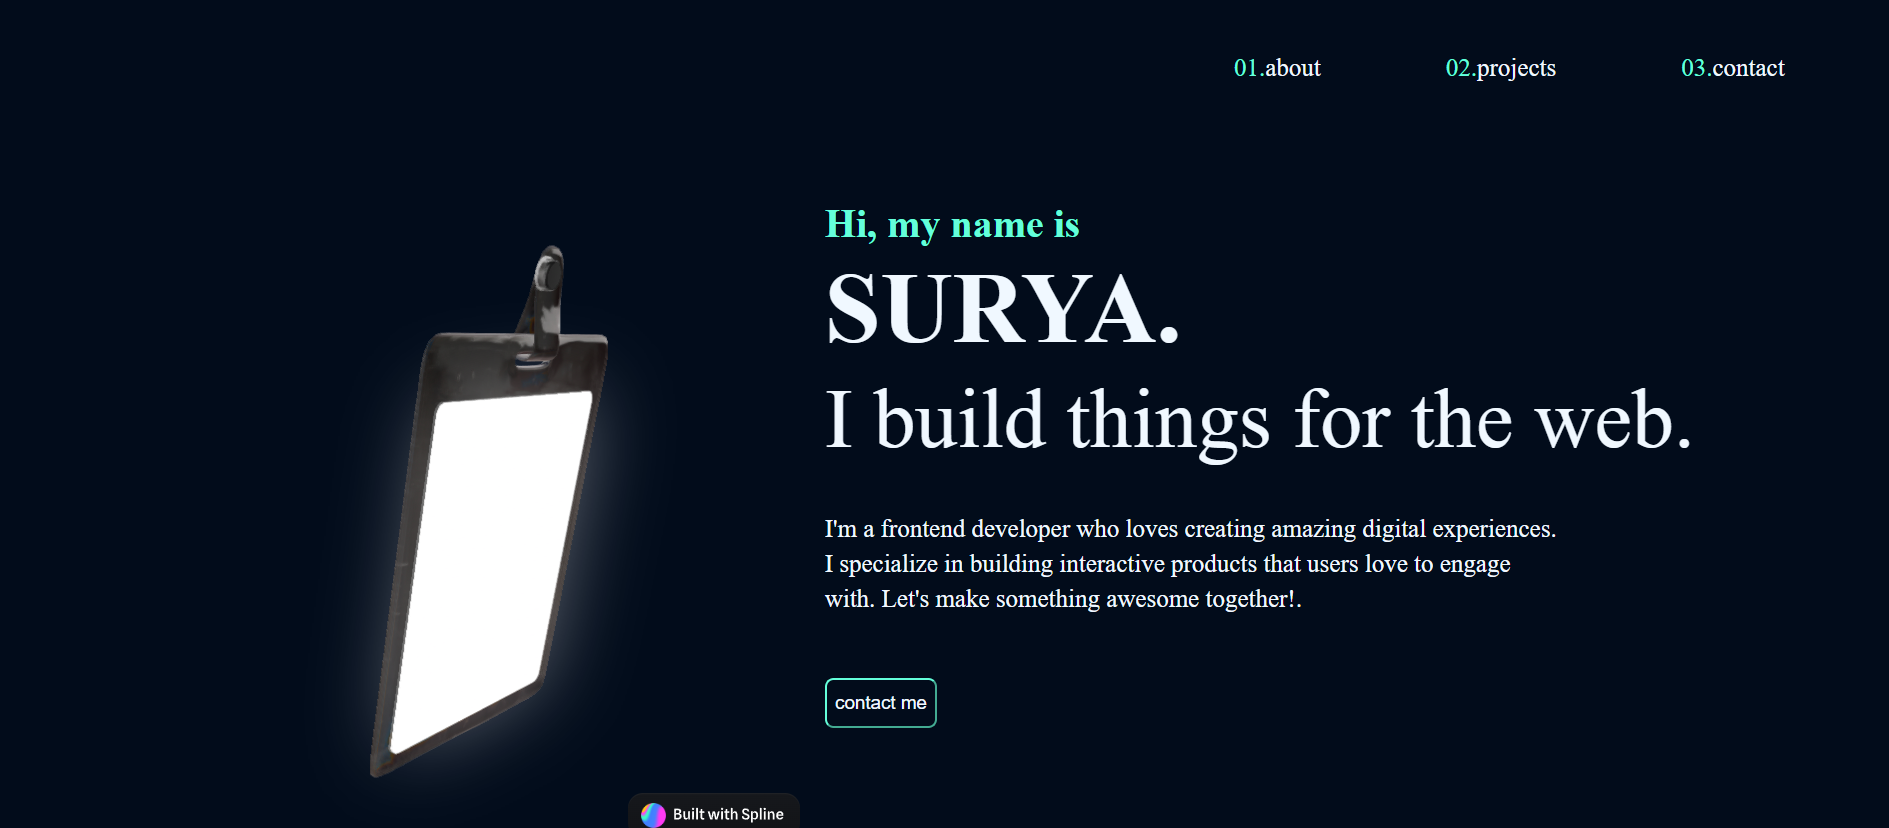
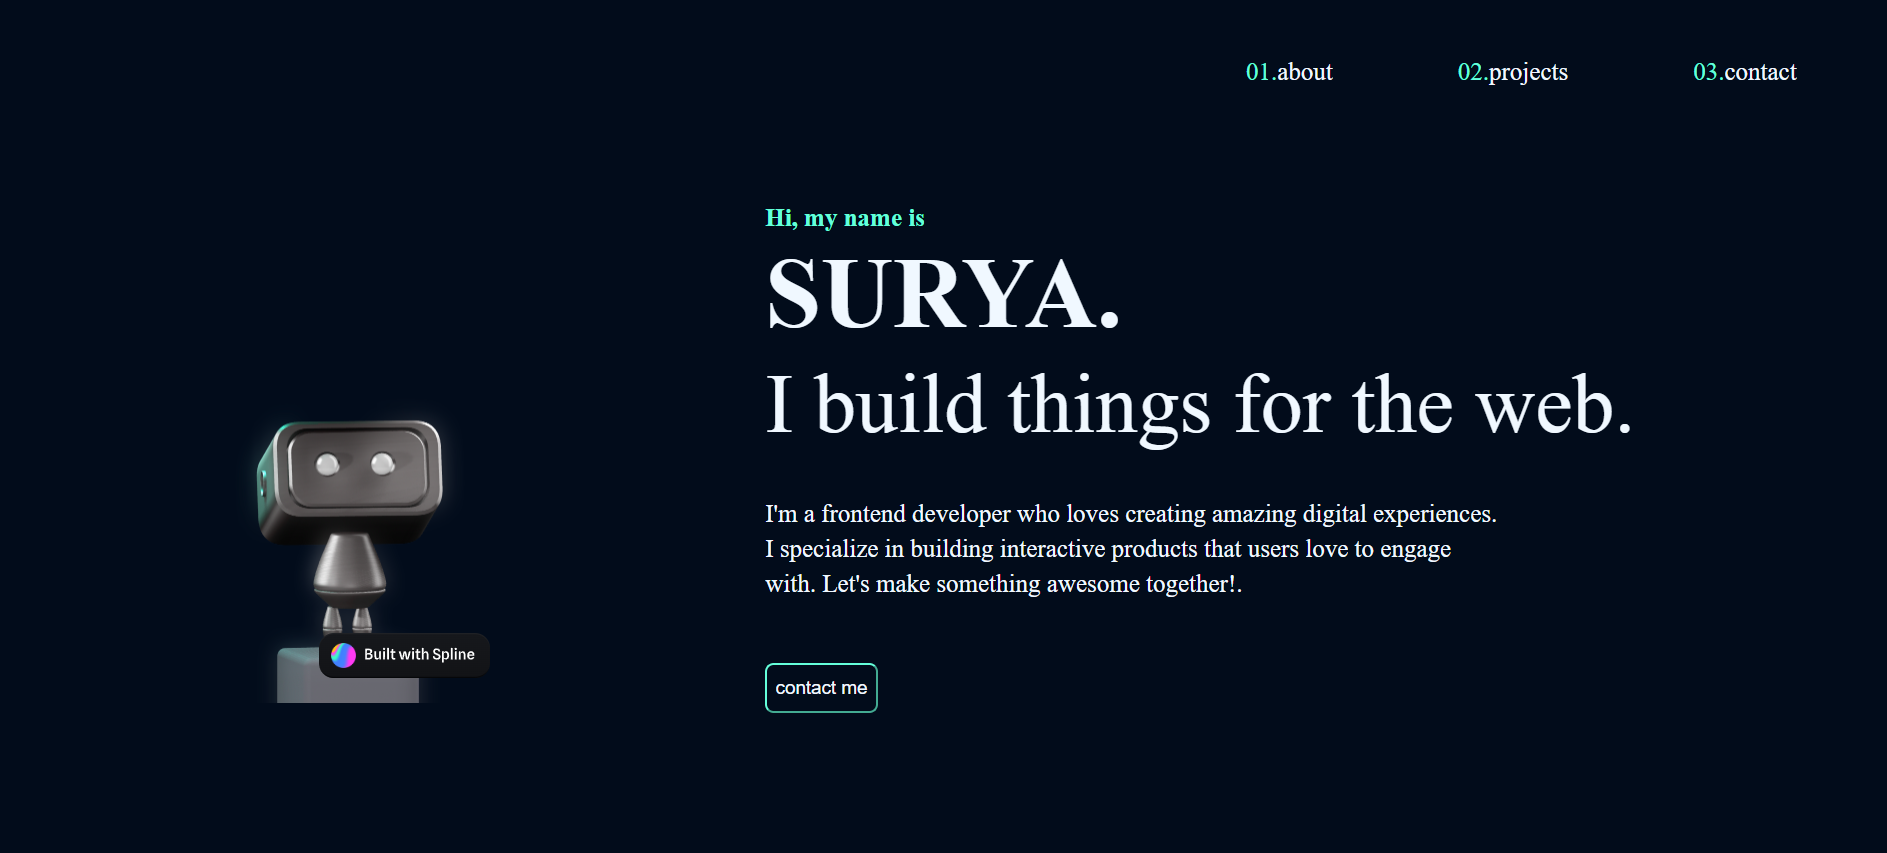
style updated

diff --git a/another.html b/another.html
@@ -1,0 +1,160 @@
+<!DOCTYPE html>
+<html lang="en">
+<head>
+    <meta charset="UTF-8">
+    <meta name="viewport" content="width=device-width, initial-scale=1.0">
+    <title>Portfolio</title>
+   
+    <script src="https://cdn.tailwindcss.com"></script>
+</head>
+
+<body class="bg-indigo-950 px-[100px] font-mono">
+    <header class="px-[40px] sticky top-0 z-50 bg-indigo-950">
+        <nav class="flex justify-between items-center w-full   py-10">
+            <div class="text-teal-300">
+                test
+
+            </div>
+            <div class=" " >
+            
+                <ul class="flex items-center  text-[#FFAF45]  ">
+                    <li class="text-xl  mx-[20px] hover:text-teal-300 "><span class=" text-sm text-teal-300">01.</span><a class="" href="#about">About</a></li>
+                    <li class=" text-xl mx-[20px] hover:text-teal-300 "><span class=" text-sm text-teal-300">02.</span><a class=""href="#projects">Projects</a</li>
+                    <li class=" text-xl  mx-[20px] hover:text-teal-300"><span class=" text-sm text-teal-300">03.</span><a class=""href="#contact">Contact</a></li>
+                  </ul>
+                </div>
+               
+            
+        </nav>
+    </header>
+    <section class="flex   justify-start flex-col items-start min-w-full max-w-screen-lg mx-auto h-lvh border-b border-teal-200 ">
+      <div class="pt-[220px]">
+        <div><h1 class="mb-[20px] ml-[4px] text-teal-300 ">Hi, my name is</h1></div>
+        <div class=""><h2 class="text-7xl font-bold text-slate-300 ">SURYA.</h2></div>
+        <div class=""><h3 class="text-7xl font-bold text-indigo-300 leading-[0.9] tracking-tight ">I build things for the web.</h3></div>
+        <div> <p class="mt-[20px] max-w-[540px] text-indigo-300 tracking-tight text-lg  "> I'm a frontend developer who loves creating amazing digital
+            experiences. I specialize in building interactive products that users
+            love to engage with. Let's make something awesome together!.</p></div>
+            <div class="">
+                <p>
+                    <button class=" text-teal-300 border border-teal-300 py-3 px-5 text-2xl rounded mt-[50px] transition duration-500 ease-in-out  hover:text-cyan-300 transform hover:-translate-y-1 hover:scale-110 ">
+                      <a href="mailto:suryasv0-729@gmail.com">contact me</a>
+                    </button>
+                  </p>
+            </div>
+          </div>
+    </section>
+    <section class="h-dvh pt-[220px] pb-[800px] border-b border-teal-200  ">
+        <h2 class=" text-slate-100 font-bold text-3xl tracking-tight mt-[10px] mb-[40px] w-full leading-[1.1]"><span class="text-teal-300 text-lg pr-2">01.</span>About Me </h2>
+        
+        <div class="flex gap-12 ">
+            <div class="   ">
+<div class="  text-indigo-300 text-left ">
+    <p class=" mb-[50px] text-lg  ">
+        Hello! My name is surya. I'm someone who sees the world through
+        visuals.Since childhood, I've always been a creative soul, preferring
+        drawing over crunching numbers. When I began exploring programming
+        languages like Java, I found myself losing interest quickly. However,
+        when my team encouraged me to learn JavaScript, something
+        clicked. As I started learning HTML and CSS, I discovered the joy of
+        seeing my creations come to life on the screen. This journey ignited a
+        passion for front-end development within me.
+      </p>
+      <p class=" mb-[50px] text-lg ">
+        Building interactive websites allows me to combine my love for
+        creativity with the power of technology. I find immense satisfaction
+        in crafting digital experiences that engage and inspire users.
+      </p>
+      <p class="text-lg   ">
+        Here are a few technologies I’ve been working with recently:
+      </p>
+</div>
+<div class=" ml-4 flex gap-8 text-teal-300 mt-[20px] ">
+    <ul class=" pt-10 list-disc  ">
+      <li class="pl-[5px] mb-[20px]">JavaScript (ES6+)</li>
+      <li class="pl-[5px] mb-[20px]">React</li>
+      <li class="pl-[5px] mb-[20px]">HTML</li>
+      </ul>
+      <ul class=" pt-10 list-disc">
+      <li class="pl-[5px] mb-[20px]">Git</li>
+      <li class="pl-[5px] mb-[20px]">CSS</li>
+      <li class="pl-[5px] mb-[20px]">3D designing</li>
+    </ul>
+</div>
+</div>
+
+            <div class="mb-10">
+<img class="rounded-full max-w-[350px]" src="img/uifaces-cartoon-image.jpg" alt="">
+            </div>
+        </div>
+        
+
+    </section>
+    <section class="py-[100px]  text-indigo-300 border-b border-teal-200">
+        <h2  class="text-slate-100 font-bold text-3xl tracking-tight mt-[10px] mb-[40px] w-full leading-[1.1]"><span class="text-teal-300 text-lg pr-2">02.</span>Projects</h2>
+       
+          <div class="mx-auto container grid grid-cols-2 items-center gap-[5rem]  justify-items-center">
+           
+             
+                <a href="https://urcookmate.netlify.app/">
+              <img class=" border-2 border-teal-300 rounded w-[450px] h-[280px] hover:scale-110 transition duration-700 cursor-pointer  " src="./img/cookmateimg.png" alt="" >
+              
+                </a>
+                
+           
+            
+          
+           
+             
+              <p class="text-xl p-5 w-[600px]  ">
+                This project is a web application that allows users to search for
+                recipes using either the recipe name or ingredient name. The
+                application utilizes the Forkify API to fetch recipe data and
+                provides a user-friendly interface for exploring and managing
+                recipes.
+              </p>
+            
+         
+              
+              <p class="text-xl p-5  w-[600px] ml-28 ">
+                Developed a landing page for a meal delivery service, following
+                modern design principles. Integrated a 3D hamburger model using
+                Spline to enhance visual appeal and user engagement.currently
+                working on making it responsive to all screen sizes.
+              </p>
+           
+              <a href="https://testomninow.netlify.app/">
+              <img class="border-2 border-teal-300 rounded w-[450px] h-[280px] hover:scale-110 transition duration-700 cursor-pointer" src="img/omniimg.png" alt="" >
+            </a>
+            
+    
+          
+          
+              <a href="https://suryaonline.netlify.app/">
+              <img class="border-2 border-teal-300 rounded w-[450px] h-[280px] hover:scale-110 transition duration-700 cursor-pointer " src="img/portfolioimg.png" alt="">
+            </a>
+           
+              <p class="text-xl p-5  w-[600px] ">
+                Developed a portfolio project , a showcase of my creative endeavors
+                in web development. this project is made with vanilla JavaScript,
+                HTML, and CSS.used spline 3d model to enhance visual appeal and user
+                engagement
+              </p>
+            </div>
+    </section>
+    <footer id="contact">
+        <div class="text-center text-teal-300 ">
+          <div> 
+            <h2 class="py-5 font-bold text-2xl">Contact me</h2>
+            <ul class="flex  justify-center">
+              <li class="mx-1 shadow "><a class="text-gray-200" href=""> <svg fill="CurrentColor" xmlns="http://www.w3.org/2000/svg" class="w-5 h-5" viewBox="0 0 24 24"><path d="M19 0h-14c-2.761 0-5 2.239-5 5v14c0 2.761 2.239 5 5 5h14c2.762 0 5-2.239 5-5v-14c0-2.761-2.238-5-5-5zm-3 7h-1.924c-.615 0-1.076.252-1.076.889v1.111h3l-.238 3h-2.762v8h-3v-8h-2v-3h2v-1.923c0-2.022 1.064-3.077 3.461-3.077h2.539v3z"/></svg></a></li>
+              <li class=" mx-1 shadow"><a class="text-gray-200" href=""> <svg fill="CurrentColor"  xmlns="http://www.w3.org/2000/svg" class="w-5 h-5" viewBox="0 0 24 24"><path d="M15.233 5.488c-.843-.038-1.097-.046-3.233-.046s-2.389.008-3.232.046c-2.17.099-3.181 1.127-3.279 3.279-.039.844-.048 1.097-.048 3.233s.009 2.389.047 3.233c.099 2.148 1.106 3.18 3.279 3.279.843.038 1.097.047 3.233.047 2.137 0 2.39-.008 3.233-.046 2.17-.099 3.18-1.129 3.279-3.279.038-.844.046-1.097.046-3.233s-.008-2.389-.046-3.232c-.099-2.153-1.111-3.182-3.279-3.281zm-3.233 10.62c-2.269 0-4.108-1.839-4.108-4.108 0-2.269 1.84-4.108 4.108-4.108s4.108 1.839 4.108 4.108c0 2.269-1.839 4.108-4.108 4.108zm4.271-7.418c-.53 0-.96-.43-.96-.96s.43-.96.96-.96.96.43.96.96-.43.96-.96.96zm-1.604 3.31c0 1.473-1.194 2.667-2.667 2.667s-2.667-1.194-2.667-2.667c0-1.473 1.194-2.667 2.667-2.667s2.667 1.194 2.667 2.667zm4.333-12h-14c-2.761 0-5 2.239-5 5v14c0 2.761 2.239 5 5 5h14c2.762 0 5-2.239 5-5v-14c0-2.761-2.238-5-5-5zm.952 15.298c-.132 2.909-1.751 4.521-4.653 4.654-.854.039-1.126.048-3.299.048s-2.444-.009-3.298-.048c-2.908-.133-4.52-1.748-4.654-4.654-.039-.853-.048-1.125-.048-3.298 0-2.172.009-2.445.048-3.298.134-2.908 1.748-4.521 4.654-4.653.854-.04 1.125-.049 3.298-.049s2.445.009 3.299.048c2.908.133 4.523 1.751 4.653 4.653.039.854.048 1.127.048 3.299 0 2.173-.009 2.445-.048 3.298z"/></svg></a></li>
+              <li class=" mx-1 shadow"><a class="text-gray-200" href="https://www.linkedin.com/in/suryasv/"> <svg fill="CurrentColor" xmlns="http://www.w3.org/2000/svg" class="w-5 h-5" viewBox="0 0 24 24"><path d="M19 0h-14c-2.761 0-5 2.239-5 5v14c0 2.761 2.239 5 5 5h14c2.762 0 5-2.239 5-5v-14c0-2.761-2.238-5-5-5zm-11 19h-3v-11h3v11zm-1.5-12.268c-.966 0-1.75-.79-1.75-1.764s.784-1.764 1.75-1.764 1.75.79 1.75 1.764-.783 1.764-1.75 1.764zm13.5 12.268h-3v-5.604c0-3.368-4-3.113-4 0v5.604h-3v-11h3v1.765c1.396-2.586 7-2.777 7 2.476v6.759z"/></svg></a></li>
+              <li class="mx-1 shadow"><a class="text-gray-200" href="https://github.com/suryasv0729"> <svg stroke="CurrentColor"  xmlns="http://www.w3.org/2000/svg" class="w-5 h-5"viewBox="0 0 24 24" id="github"><path d="M14.5 23.862a.5.5 0 0 1-.5-.5v-3.72c0-.899-.115-1.537-.363-2.005a.5.5 0 0 1 .329-.72C16.93 16.233 19 14.064 19 11.642c0-1.2-.493-2.345-1.425-3.312a.5.5 0 0 1-.094-.558c.372-.802.293-1.894-.148-2.549-.583.228-1.34.705-1.832 1.289a.496.496 0 0 1-.554.147 8.67 8.67 0 0 0-5.893 0 .5.5 0 0 1-.554-.146c-.492-.584-1.249-1.061-1.833-1.289-.441.655-.52 1.747-.148 2.549a.498.498 0 0 1-.094.557C5.493 9.297 5 10.443 5 11.642c0 2.307 1.863 4.385 4.636 5.17a.501.501 0 0 1 .364.482v.349c0 .626-.251.979-.462 1.166-.452.397-1.036.337-1.1.33h-.01c-.824 0-1.444-.459-2.043-.903-.301-.223-.606-.45-.961-.638.077.104.153.211.23.318.75 1.043 1.599 2.226 2.847 2.226h1a.5.5 0 0 1 .5.5v2.72a.5.5 0 0 1-.608.488C3.95 22.642 0 17.719 0 12.142c0-6.617 5.383-12 12-12s12 5.383 12 12c0 5.576-3.95 10.5-9.392 11.708a.497.497 0 0 1-.108.012zm.258-6.121c.164.517.242 1.137.242 1.901v3.078c4.671-1.326 8-5.677 8-10.578 0-6.065-4.935-11-11-11s-11 4.935-11 11c0 4.901 3.329 9.252 8 10.578v-1.578h-.5c-1.76 0-2.813-1.465-3.659-2.643-.479-.667-.975-1.357-1.341-1.357a.5.5 0 0 1 0-1c1.74 0 2.705.715 3.48 1.29.536.397.958.71 1.52.71.056.003.263.018.379-.086.095-.086.119-.257.121-.392-3.006-.987-5-3.368-5-6.021 0-1.364.512-2.66 1.484-3.766-.429-1.243-.164-2.761.662-3.588a.494.494 0 0 1 .481-.13c.668.177 1.66.696 2.401 1.451a9.706 9.706 0 0 1 5.941 0c.741-.755 1.733-1.274 2.401-1.451a.493.493 0 0 1 .481.13c.827.827 1.091 2.345.662 3.587C19.488 8.983 20 10.279 20 11.642c0 2.728-2.127 5.17-5.242 6.099z"></path></svg></a></li>
+            </ul>
+        </div>
+        <div class="text-xl mt-2 mb-10"><p class="text-xl"><span class="text-indigo-300 text-sm">made with ❤ by</span> <a class="m-link" href="https://www.linkedin.com/in/suryasv/" target="_blank">surya</a></p></div>
+      </footer>
+    <script src="./script.js"></script>
+</body>
+</html>

diff --git a/index.html b/index.html
@@ -3,9 +3,13 @@
   <head>
     <meta charset="UTF-8" />
     <meta name="viewport" content="width=device-width, initial-scale=1.0" />
+    <link rel="preconnect" href="https://fonts.googleapis.com">
+<link rel="preconnect" href="https://fonts.gstatic.com" crossorigin>
+<link href="https://fonts.googleapis.com/css2?family=Open+Sans:ital,wght@0,300..800;1,300..800&family=Roboto:ital,wght@0,100;0,300;0,400;0,500;0,700;0,900;1,100;1,300;1,400;1,500;1,700;1,900&display=swap" rel="stylesheet">
 
     <link rel="stylesheet" href="./style.css" />
     <link rel="icon" type="image/x-icon" href="./img/uifaces-cartoon-image (1).jpg">
+    
     <title>Surya -frontend developer</title>
   </head>
   <body>
@@ -35,14 +39,16 @@
           url="https://prod.spline.design/7uWlxxB3rcuB4Y4F/scene.splinecode"
         ></spline-viewer> -->
         <!-- ///////////////////////////////// -->
-       <script 
+       <!-- <script 
           type="module"
           src="https://unpkg.com/@splinetool/viewer@1.0.62/build/spline-viewer.js"
           async
         ></script>
         <spline-viewer
           url="https://prod.spline.design/7uWlxxB3rcuB4Y4F/scene.splinecode"
-        ></spline-viewer>
+        ></spline-viewer> -->
+        <script type="module" src="https://unpkg.com/@splinetool/viewer@1.0.78/build/spline-viewer.js"></script>
+        <spline-viewer url="https://prod.spline.design/Ui52433fH-p3hLZJ/scene.splinecode"></spline-viewer>
       </div>
       <div class="hero-content">
         <h2 class="intro">Hi, my name is</h2>
@@ -91,7 +97,7 @@
         </ul>
       </div>
       <div class="img">
-        <img class="abt-img" src="./img/uifaces-cartoon-image.jpg" alt="" />
+        <img class="abt-img" src="./img/suryaprofile.JPG" alt="" />
       </div>
     </div>
     <div class="section-3" id="projects">
@@ -99,6 +105,7 @@
       <div class="projects">
         <div class="img-p">
           <img class="pro-img" src="./img/cookmateimg.png" alt="" />
+          <div class="overlay"></div>
         </div>
         <div>
           <button class="pro-link"><a href="https://urcookmate.netlify.app/" target="_blank">&#8599;</a></button>
@@ -119,8 +126,10 @@
             working on making it responsive to all screen sizes.
           </p>
         </div>
-        <div><img class="pro-img" src="./img/omniimg.png" alt="" /></div>
-        <div><img class="pro-img" src="./img/portfolioimg.png" alt="" /></div>
+        <div class="img-p"><img class="pro-img" src="./img/omniimg.png" alt="" />
+          <div class="overlay"></div></div>
+        <div class="img-p"><img class="pro-img" src="./img/portfolioimg.png" alt="" />
+          <div class="overlay"></div></div>
         <div>
           <button class="pro-link"><a href="https://suryaonline.netlify.app/" target="_blank">&#8599;</a></button>
           <p class="pro-para">
@@ -147,7 +156,9 @@
         </div>
       </div>
       <div class="made"><p>made with ❤ by <a class="m-link" href="https://www.linkedin.com/in/suryasv/" target="_blank">surya</a></p></div>
+      
     </footer>
-    <script src="./script.js"></script>
+    <div class="another"><a class="an-link" href="./another.html">another version of my portfolio &rightarrow;</a></div>
+    <script defer src="./script.js"></script>
   </body>
 </html>

diff --git a/style.css b/style.css
@@ -2,11 +2,13 @@
   margin: 0;
   box-sizing: border-box;
   padding: 0;
+  overflow-x: hidden;
 }
 
 body {
   background-color: #020c1b;
   color: aliceblue;
+  font-family: "Roboto", sans-serif;
 }
 
 .nav-list {
@@ -21,21 +23,24 @@ body {
 }
 .num {
   color: #64ffda;
+  font-size: 20px;
 }
 
 .spline-image {
   margin-top: -88px;
-  margin-left: -160px;
+  margin-left: -300px;
   height: 500px;
   width: 600px;
+  margin-bottom: 30px;
+  padding-bottom: 70px;
   background-color: #020c1b;
 }
 
 .hero-content {
-  height: 700px;
+  height: 100vh;
   width: 800px;
   background-color: #020c1b;
-  margin-right: -230px;
+  margin-left: 200px;
 }
 
 .main {
@@ -50,7 +55,7 @@ h2 {
   margin-top: 70px;
   margin-bottom: 3px;
   color: #64ffda;
-  font-size: xx-large;
+  font-size: 20px;
 }
 h1 {
   font-size: clamp(40px, 8vw, 80px);
@@ -77,23 +82,24 @@ button {
   font-weight: 520;
   margin-top: 50px;
   cursor: pointer;
+  transition: all 0.3s;
 }
 button a:hover {
   color: #64ffda;
 }
 .section-2 {
   background-color: #020c1b;
-  padding: 0 150px 0 150px;
+  padding: 0 150px 30px 150px;
   display: grid;
   grid-template-columns: 3fr 1fr;
   justify-content: center;
   align-items: center;
   border-bottom: solid 2px #4b4d4c6f;
+  height: 100vh;
 }
 
 .about {
   background-color: #020c1b;
-  height: 850px;
   width: 1200px;
   display: flex;
   flex-direction: column;
@@ -122,7 +128,7 @@ button a:hover {
 .img {
   width: 900px;
   margin-left: 140px;
-  margin-bottom: 300px;
+  margin-bottom: 00px;
 }
 
 .skill-list {
@@ -146,7 +152,7 @@ button a:hover {
 }
 
 .projects {
-  height: 990px;
+  height: 1000px;
   width: 1200px;
   display: grid;
   grid-template-columns: 1fr 1fr;
@@ -161,7 +167,23 @@ button a:hover {
   border: solid 2px #fff;
   border-radius: 4px;
 }
+.img-p {
+  position: relative;
+  display: inline-block;
+}
 
+.overlay {
+  position: absolute;
+  top: 0;
+  left: 0;
+  width: 100%;
+  height: 100%;
+  background-color: #64ffdb75;
+  transition: background-color 0.3s ease;
+}
+.overlay:hover {
+  background-color: #64ffdb00; /* Green transparent layer */
+}
 .pro-para {
   font-size: 20px;
   width: 450px;
@@ -170,7 +192,7 @@ button a:hover {
 .pro-head {
   margin-right: 1008px;
   margin-bottom: 50px;
-  font-size: xx-large;
+  font-size: 20px;
   color: aliceblue;
 }
 
@@ -186,6 +208,7 @@ footer {
   padding-top: 200px;
   padding-bottom: 100px;
   height: 150px;
+  overflow-y: hidden;
 }
 
 .contact-icon {
@@ -248,5 +271,15 @@ a {
 }
 
 .m-link:hover {
+  color: #64ffda;
+}
+
+.another {
+  text-justify: center;
+  padding-left: 1190px;
+  padding-bottom: 20px;
+}
+
+.an-link:hover {
   color: #64ffda;
 }
